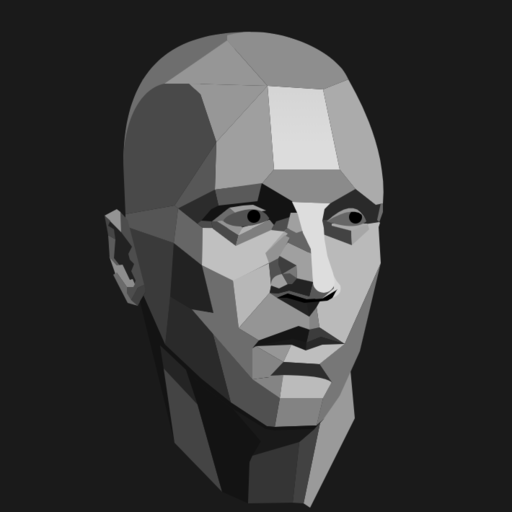
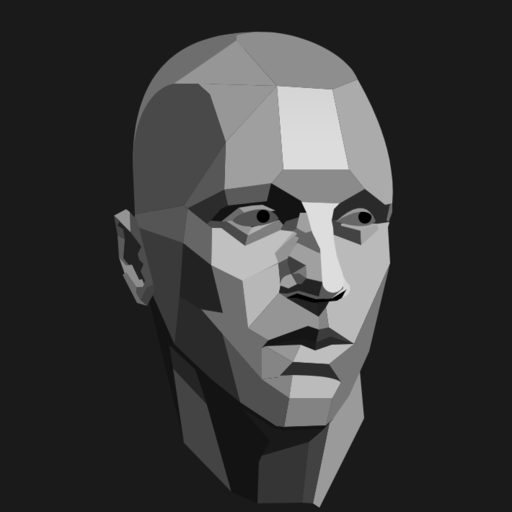
manifest fix (hopefully)

diff --git a/service-worker.js b/service-worker.js
@@ -37,7 +37,7 @@
 /* eslint-disable indent, no-unused-vars, no-multiple-empty-lines, max-nested-callbacks, space-before-function-paren, quotes, comma-spacing */
 'use strict';
 
-var precacheConfig = [["README.md","a1c1a4de69de925cdf2398670eef1dfd"],["_config.yml","d178df8a46be3ea7f599296e24430ce0"],["android-chrome-192x192.png","7d1701846464ba626ed5c5aac3e84b91"],["android-chrome-512x512.png","75c3d649211ee203a2a510f03f1b7569"],["apple-touch-icon.png","11a4854985853449d7e1a8dd5caa5b62"],["assets/css/style.css","1a67a5d0e6c68b6139ad847f072e713d"],["assets/images/banner-web-development.png","c40336bc59c380163e1c87360b0cbfe3"],["assets/images/boat.png","b90f168d52ad0eb28d71069a51685eca"],["assets/images/face.png","cd150a40f389e2cae146351b667d1343"],["assets/images/flag.png","2a85b083d4b4843464e8323f48a8d6d5"],["assets/images/house.png","15f07a16c953b0333f4927d2b89d5886"],["assets/script/script.js","f90f7cee1370d1c3473e8e336c6e316b"],["assets/script/script.min.js","19b1a46786c8030acc53615b8180bc9e"],["assets/script/script2.js","9d3c0b438bcd71c2ffeafbdee26c2525"],["assets/script/script2.min.js","df9eb2721dfd01fe9772e0221080bf38"],["assets/script/script3.js","5225ee040bd27af51e0b2d8f462cd012"],["assets/script/script3.min.js","c365034cb2749d6fad2727edd6b475a3"],["assets/script/script4.js","efb54ab1ceaf1584b925c0c372572f41"],["assets/script/script4.min.js","9ba0da064f3ce3931b825e4a4187742e"],["browserconfig.xml","a493ba0aa0b8ec8068d786d7248bb92c"],["favicon-16x16.png","c315998049ab61c63ecdbf5ec96b468c"],["favicon-32x32.png","e42a35065542b2b945ee24e0c77e0e37"],["favicon.ico","a60fbf9f2f476c00999a9596b9dd7ca3"],["index.html","ba501d3d8dff899ad9e3e21488d92088"],["manifest.json","17114dd74770fd1a6a043eb8f8c52e93"],["mstile-150x150.png","069a3fe3f9a802bb87134bc0bb4aa27e"],["safari-pinned-tab.svg","f40d8cc56c92b942676fc5df5b21222c"]];
+var precacheConfig = [["README.md","a1c1a4de69de925cdf2398670eef1dfd"],["_config.yml","d178df8a46be3ea7f599296e24430ce0"],["android-chrome-192x192.png","48880600d89cf4203cf52ce362c2e039"],["android-chrome-512x512.png","f8ad7e319a61566b61833a039f017693"],["apple-touch-icon.png","250e118b55495f4260ecea5cb7231452"],["assets/css/style.css","1a67a5d0e6c68b6139ad847f072e713d"],["assets/images/banner-web-development.png","c40336bc59c380163e1c87360b0cbfe3"],["assets/images/boat.png","b90f168d52ad0eb28d71069a51685eca"],["assets/images/face.png","cba2d4c019995907eac761fa90d88ac2"],["assets/images/flag.png","2a85b083d4b4843464e8323f48a8d6d5"],["assets/images/house.png","15f07a16c953b0333f4927d2b89d5886"],["assets/script/script.js","f90f7cee1370d1c3473e8e336c6e316b"],["assets/script/script.min.js","19b1a46786c8030acc53615b8180bc9e"],["assets/script/script2.js","9d3c0b438bcd71c2ffeafbdee26c2525"],["assets/script/script2.min.js","df9eb2721dfd01fe9772e0221080bf38"],["assets/script/script3.js","5225ee040bd27af51e0b2d8f462cd012"],["assets/script/script3.min.js","c365034cb2749d6fad2727edd6b475a3"],["assets/script/script4.js","efb54ab1ceaf1584b925c0c372572f41"],["assets/script/script4.min.js","9ba0da064f3ce3931b825e4a4187742e"],["browserconfig.xml","a493ba0aa0b8ec8068d786d7248bb92c"],["favicon-16x16.png","8c0ec94395f8904da8cffb22156ba78b"],["favicon-32x32.png","2e399a42ce4e5a932d5fab3289575592"],["favicon.ico","b5a0ad5e10e4f540326ebc4b40381f2c"],["index.html","ba501d3d8dff899ad9e3e21488d92088"],["manifest.json","17114dd74770fd1a6a043eb8f8c52e93"],["mstile-150x150.png","d0fd667e4a077b7e9a2d5db94cc2ecd3"],["safari-pinned-tab.svg","f40d8cc56c92b942676fc5df5b21222c"]];
 var cacheName = 'sw-precache-v3-sw-precache-' + (self.registration ? self.registration.scope : '');
 
 
